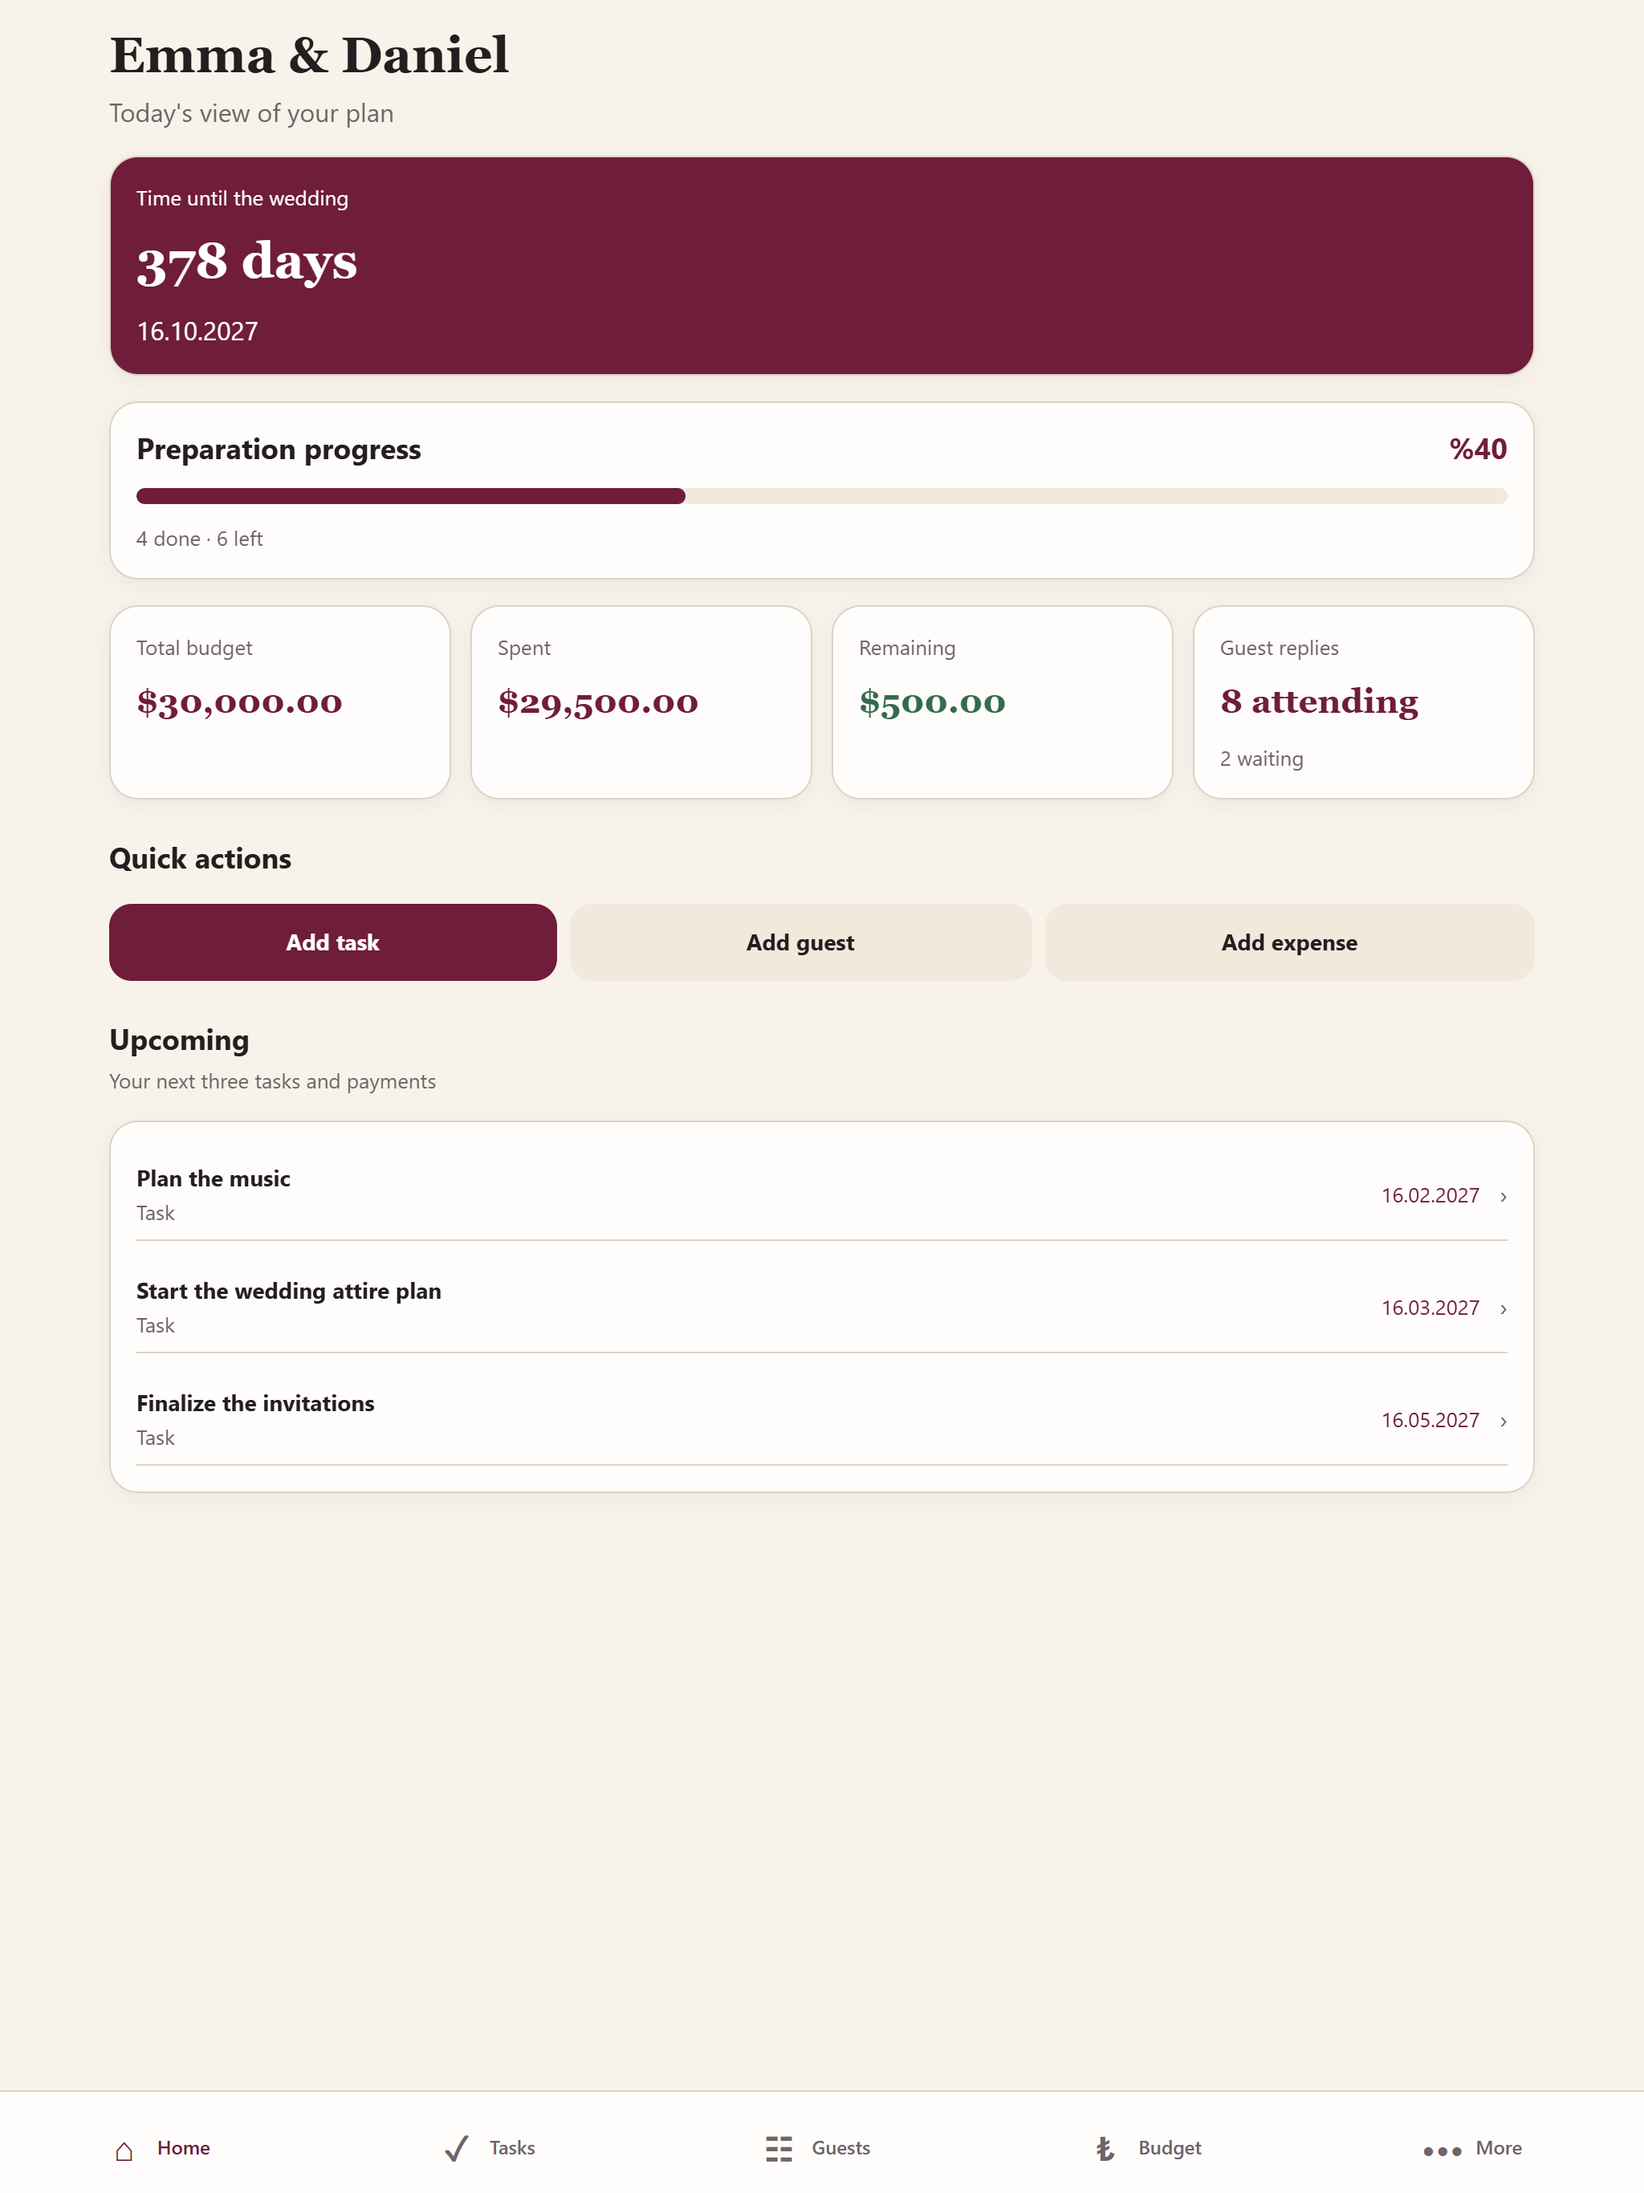
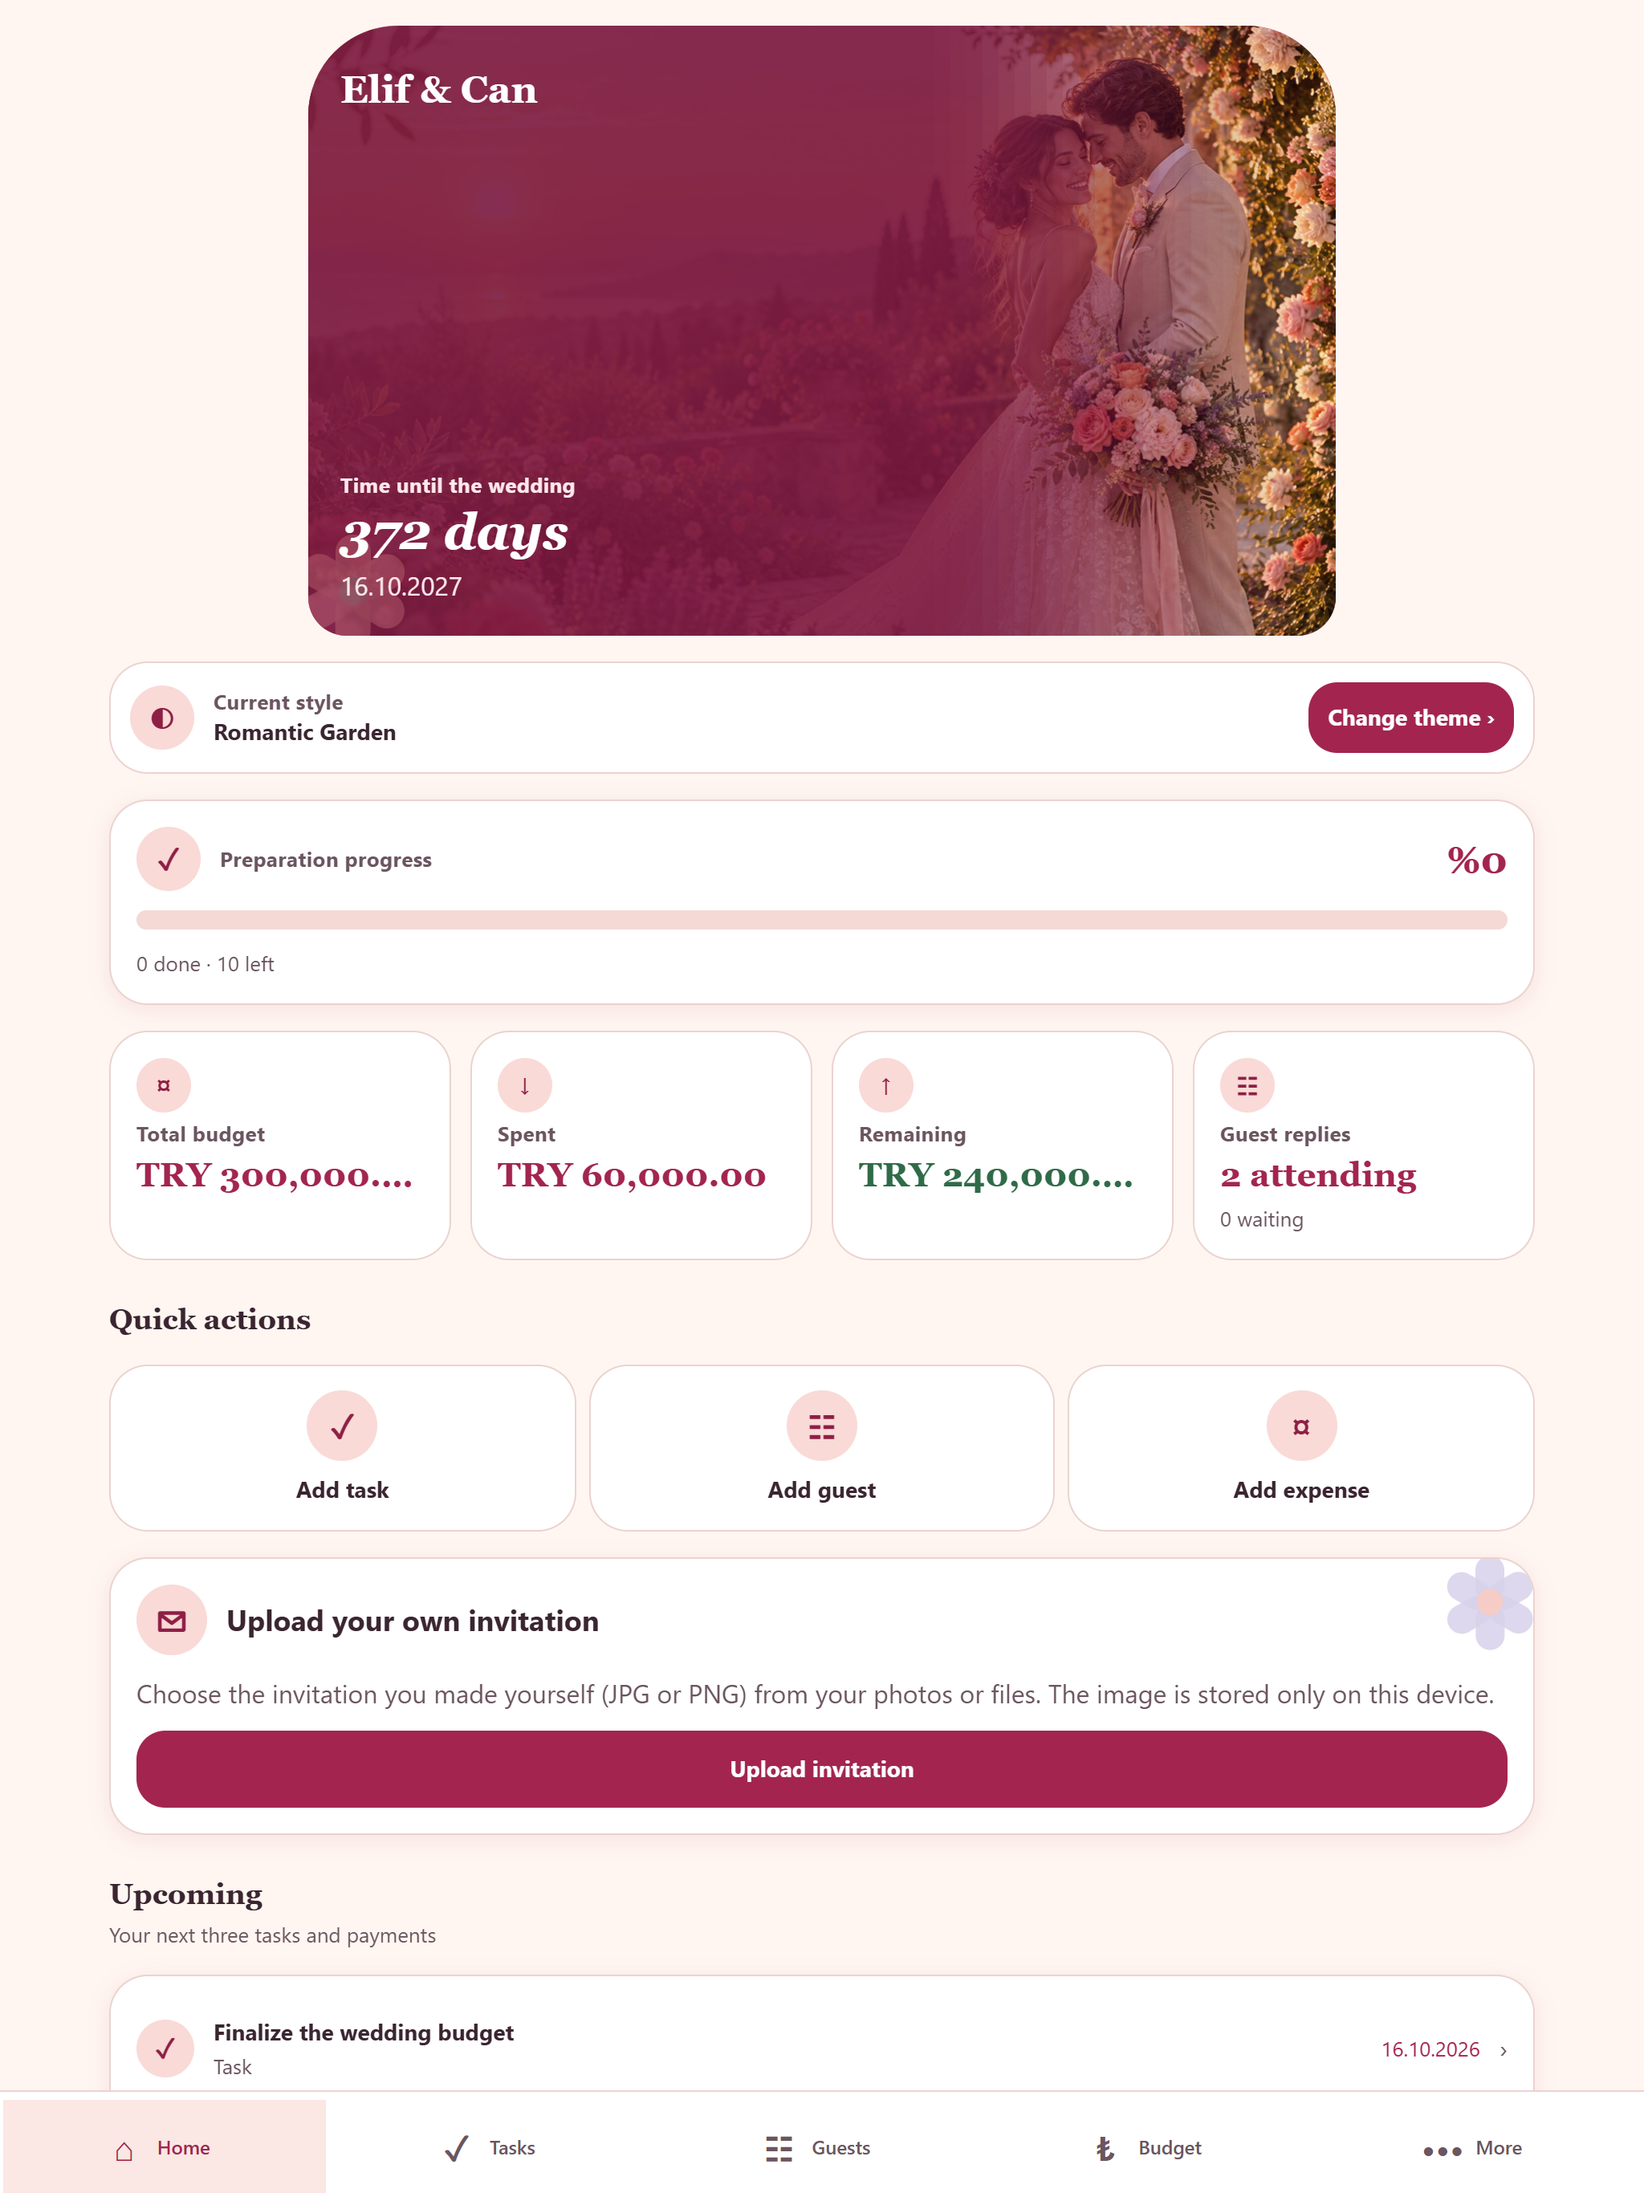
chore: refresh App Store screenshots for current branding

Changed region(s): [[0.0625, 0.0, 0.9375, 0.8712], [0.0, 0.9023, 0.3125, 1.0]]

diff --git a/RELEASE_CHECKLIST.md b/RELEASE_CHECKLIST.md
@@ -1,6 +1,6 @@
-# Release Checklist — 1.0.0 (iOS build 8 processing for TestFlight)
+# Release Checklist — 1.0.0 (iOS build 8 uploaded to TestFlight)
 
-Son güncelleme: 9 Ekim 2026. Build 8 App Store Connect’e başarıyla yüklendi; Apple'ın TestFlight işlemesi sürüyor. Bu cihazda kurulum ve test henüz yapılmadı. App Review’a gönderim veya mağaza yayını yapılmadı. İşaretli maddeler doğrulanmış durumları, açık maddeler cihaz, mağaza formu veya insan incelemesi gerektirenleri gösterir.
+Son güncelleme: 9 Ekim 2026. Build 8 App Store Connect’e başarıyla yüklendi. Apple'ın işleme/TestFlight durumu ve bu cihazda kurulum henüz doğrulanmadı. App Review’a gönderim veya mağaza yayını yapılmadı. İşaretli maddeler doğrulanmış durumları, açık maddeler cihaz, mağaza formu veya insan incelemesi gerektirenleri gösterir.
 
 ## Kod ve kalite
 
@@ -9,7 +9,7 @@ Son güncelleme: 9 Ekim 2026. Build 8 App Store Connect’e başarıyla yüklend
 - [x] Birim, component, migration, onboarding, yedek ve silme testleri (47 suite, 638 test)
 - [x] Expo Doctor 20/20
 - [x] Web production export
-- [x] Hukuki site statik build ve rota testleri (30/30; son yerel değişiklikler henüz yayımlanmadı)
+- [x] Hukuki site statik build ve rota testleri (30/30; ilgili değişiklikler GitHub Pages'e dağıtıldı)
 - [x] Gerçek çalışan web uygulamasında onboarding, persistence ve CRUD smoke testi
 - [x] Telefon genişliği web önizlemesinde ana sayfa/bütçe uzun tutarları kesilmeden gösteriyor; gerçek iPhone'da yeni build ile tekrar doğrulanmalı
 - [x] Özelleştirilebilir salon planında hızlı yerleşim, özellik düzenleme, kilitleme, önizleme ve yeniden açılış kalıcılık testi
@@ -25,7 +25,7 @@ Son güncelleme: 9 Ekim 2026. Build 8 App Store Connect’e başarıyla yüklend
 - [ ] Apple SKU oluştur
 - [ ] Yayıncı adı, hukuki kişi/adres, telefon ve AB trader statüsünü doldur
 - [x] Gerçek destek e-postasını `appsupportline@gmail.com` olarak yapılandır
-- [x] Hukuki site GitHub Pages'te mevcut; yeni veri-yedeği açıklamalarının yayımı bekliyor
+- [x] Hukuki site GitHub Pages'te mevcut; cihaz yedekleri ve dosya seçici kopyalarıyla ilgili açıklamalar yayımlandı
 - [ ] Hedef ülkeleri ve yerel tüketici/mahremiyet gereksinimlerini hukuk danışmanıyla doğrula
 
 ## Gizlilik ve içerik
@@ -35,7 +35,8 @@ Son güncelleme: 9 Ekim 2026. Build 8 App Store Connect’e başarıyla yüklend
 - [x] Uygulama içi iki aşamalı tüm veri silme mevcut
 - [x] Bildirim izni onboarding açıklamasından sonra ve isteğe bağlı
 - [x] Uygulama ikonları ve feature graphic boyut/içerik doğrulamasından geçti
-- [ ] App Store ekran görüntülerini tema ve kurdele marka değişikliklerinden sonraki gerçek arayüzle yeniden doğrula; yerelleştirilmiş set son olarak `fc5d38a` commit'inde üretildi, tema `0f94474` ve marka `8f8c720` daha sonra değişti
+- [x] Türkçe/İngilizce iPhone ve iPad mağaza görsellerini güncel tema/kurdele arayüzüyle yerelde yenile (Expo web export, kurgusal veriler)
+- [ ] Yeni mağaza görsellerini TestFlight build 8 ile görsel olarak karşılaştırıp son onay ver; ardından App Store Connect'e yükle
 - [x] Build 7 IPA arşivindeki uygulama ve üçüncü taraf SDK gizlilik manifestlerini, gerekli API reason kodlarını ve imza/profile dosyalarının varlığını doğrula (13 manifest; hepsinde tracking=false ve toplanan veri yok; Apple build'i TestFlight için geçerli kabul etti)
 - [ ] EAS Android AAB manifestinde yalnız beklenen izinleri doğrula
 - [ ] App Store yaş derecelendirme ve Google IARC sonuçlarını taslak cevaplarla karşılaştır
@@ -99,19 +100,19 @@ npx eas-cli@latest submit --platform android --profile production
 
 - [x] App kaydı ve bundle ID
 - [ ] Türkçe metadata, privacy URL, destek/pazarlama URL'si
-- [ ] 4 iPhone ve 4 iPad screenshot
+- [ ] 6 iPhone ve 6 iPad ekran görüntüsünü TestFlight build 8 ile karşılaştırıp App Store Connect'e yükle
 - [ ] App Privacy, yaş derecelendirmesi, ihracat uyumluluğu, trader ve inceleme iletişimi
-- [x] Build 7'yi TestFlight'a yükle; Apple build'i beta testine hazır duruma getirdi
-- [ ] Build 7'yi TestFlight internal tester grubundan iPhone'a kur ve cihaz testini tamamla
+- [x] Build 8'i TestFlight'a yükle; Apple işlemesi tamamlandıktan sonra test edilebilir
+- [ ] Build 8'i TestFlight internal tester grubundan iPhone'a kur ve cihaz testini tamamla
 - [ ] TestFlight internal smoke testi ve App Review notları
 
 Build 8 için mevcut verileri silmeden uygulanacak cihaz test sırası: [TESTFLIGHT_QA_BUILD8.md](./TESTFLIGHT_QA_BUILD8.md).
 
-Son App Store Connect okuması (`eas metadata:pull`, 9 Ekim 2026): sürüm kaydında yalnızca Türkçe uygulama adı vardı; İngilizce mağaza yerelleştirmesi, alt başlık, açıklama ve gizlilik URL'si yoktu. Türkçe/İngilizce mağaza metni yerel [store.config.json](./store.config.json) dosyasında hazırlandı; kaynak Markdown alanlarıyla birebir eşleşti ve `eas metadata:lint` geçti. **App Store Connect'e gönderilmedi.** İnceleme iletişim telefonu kaynak taslağında hâlâ yer tutucudur. Mevcut sürüm ayarı onaydan sonra otomatik yayındır; bu davranış kullanıcı kararı bekliyor. Hukuki sayfalardaki yedekleme açıklamaları da yerel taslakta güncellendi, GitHub Pages'e yayımlanmadı.
+Son App Store Connect okuması (`eas metadata:pull`, 9 Ekim 2026): sürüm kaydında yalnızca Türkçe uygulama adı vardı; İngilizce mağaza yerelleştirmesi, alt başlık, açıklama ve gizlilik URL'si yoktu. Türkçe/İngilizce mağaza metni yerel [store.config.json](./store.config.json) dosyasında hazırlandı; kaynak Markdown alanlarıyla birebir eşleşti ve `eas metadata:lint` geçti. **App Store Connect'e gönderilmedi.** İnceleme iletişim telefonu kaynak taslağında hâlâ yer tutucudur. Mevcut sürüm ayarı onaydan sonra otomatik yayındır; bunu elle yayınlama seçeneğine almak için kullanıcı kararı bekleniyor. Hukuki sayfalardaki yedekleme açıklamaları 6df3e86 ile yayımlandı; hukuk danışmanının nihai incelemesi hâlâ gerekli.
 
 Apple'ın güncel şartı, iPhone Dynamic Island orta boyutlu ekran için en az bir; iPadOS destekleniyorsa 13 inç iPad için en az bir ekran görüntüsüdür. Mevcut PNG boyutları (iPhone 1290×2796, iPad 2048×2732) kabul edilen ölçüler arasında; içerik/marka güncelliği ise yukarıdaki maddede yeniden doğrulanmalı. Kaynak: [Apple screenshot specifications](https://developer.apple.com/help/app-store-connect/reference/app-information/screenshot-specifications).
 
-Son TestFlight paketi 9 Ekim 2026 tarihinde oluşturuldu ve App Store Connect'e yüklendi; Apple işlemesi bekleniyor:
+Son TestFlight paketi 9 Ekim 2026 tarihinde oluşturuldu ve App Store Connect'e yüklendi. EAS yüklemeyi doğruladı; Apple işlemesi/TestFlight'ta görünme durumu kontrol edilmeli:
 
 - EAS build: `24f095e7-e167-4306-aa1e-96ba62e6df68`
 - EAS submission: `74aa57d0-73ba-4f35-b816-a38eef431ba6`

diff --git a/store-listing/README.md b/store-listing/README.md
@@ -9,14 +9,14 @@
 - Google Play feature graphic: `../assets/store/feature-graphic.png` — 1024×500 RGB
 - Apple uygulama ikonu: `../assets/images/icon.png` — 1024×1024 RGB, alfa yok
 
-`*-source.png` dosyaları çalışan Expo web uygulamasından tarayıcı QA sırasında alınan gerçek ekranlardır. Son görseller `scripts/prepare_brand_assets.py` ile bu kaynaklar esnetilmeden markalı, resmi boyutlu tuvale yerleştirilir.
+`*-source.png` dosyaları çalışan Expo web uygulamasından tarayıcı QA sırasında alınan ekranlardır. Son görseller `scripts/prepare_brand_assets.py` ile bu kaynaklar esnetilmeden markalı, resmi boyutlu tuvale yerleştirilir.
 
 App Store için yerelleştirilmiş setler (her biri 6 ekran, aynı sıra: Ana sayfa, Görevler, Davetliler ve RSVP, Davetiye şablonları, Mekân ve masa planı, Bütçe):
 
 - `screenshots/tr/iPhone/`, `screenshots/tr/iPad/`
 - `screenshots/en-US/iPhone/`, `screenshots/en-US/iPad/`
 
-Bunlar statik web export'u üzerinden gerçek uygulama arayüzüyle (kurgusal isimlerle) alınmıştır; üstüne metin/çerçeve eklenmemiştir. Yukarıdaki eski `phone-*`/`tablet-*` dosyaları yeni setler onaylanana kadar korunur.
+Bu setler Ekim 2026'da güncel tema ve kurdele markasını içeren Expo web export'undan, kurgusal örnek verilerle yeniden alınmıştır; üstüne metin/çerçeve eklenmemiştir. iOS build 8 ile görsel karşılaştırma ve mağazaya yüklemeden önce son onay bekleniyor. Eski `phone-*`/`tablet-*` görselleri Google Play için tutuluyor ve yeni arayüze göre güncellenmeleri gerekiyor.
 
 ## Metinler ve beyanlar
 
